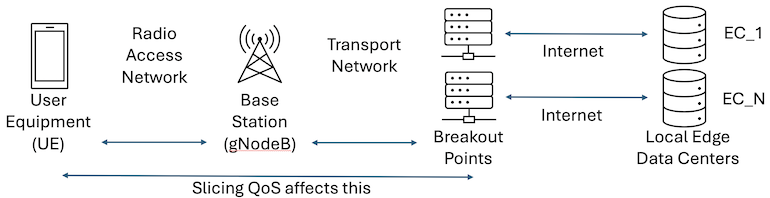
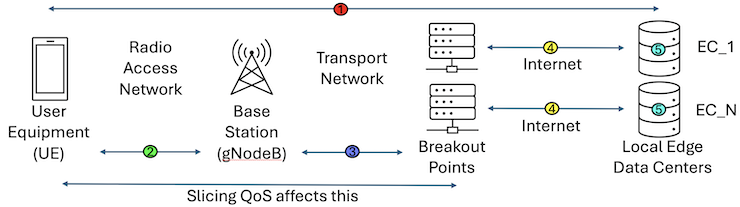
Made connection between figure and form fields better

diff --git a/src/5G4Data-tool-decision-logic/templates/first-step.html b/src/5G4Data-tool-decision-logic/templates/first-step.html
@@ -48,6 +48,31 @@
             visibility: visible;
             opacity: 1;
         }
+        .tooltip label {
+            display: flex;
+            align-items: center;
+            gap: 8px; /* Adds space between the circle and text */
+        }
+
+        .tooltip label::before {
+            content: attr(data-number); /* Gets the number from the `data-number` attribute */
+            display: flex;
+            align-items: center;
+            justify-content: center;
+            width: 24px;
+            height: 24px;
+            background-color: #007bff; /* Blue color */
+            color: white;
+            border-radius: 50%; /* Makes it a circle */
+            font-size: 14px;
+            font-weight: bold;
+        }
+        .tooltip label[data-number="1"]::before { background-color: #FF0000; } /* Red-Orange */
+        .tooltip label[data-number="2"]::before { background-color: #05f932; } /* Blue */
+        .tooltip label[data-number="3"]::before { background-color: #6b80f7; } /* Green */
+        .tooltip label[data-number="4"]::before { background-color: #cff804; } /* Yellow */
+        .tooltip label[data-number="5"]::before { background-color: #33ffeb; } /* Purple */
+
     </style>
 </head>
 <body>
@@ -70,31 +95,31 @@
 
             <form method="POST">
                 <div class="tooltip">
-                    <label for="L">Required Latency (ms):</label>
+                    <label for="L" data-number="1">Required Latency (ms):</label>
                     <span class="tooltiptext">The maximum acceptable total latency for your application, including all latency elements.</span>
                 </div>
                 <input type="text" name="L" id="L" value="{{ latencies.L }}" class="required-latency" required>
 
                 <div class="tooltip">
-                    <label for="g">UE to gNodeB (ms):</label>
+                    <label for="g" data-number="2">UE to gNodeB (ms):</label>
                     <span class="tooltiptext">Latency from User Equipment (UE) to the gNodeB (base station). This is usually low since the closest gNodeB is probably close.</span>
                 </div>
                 <input type="text" name="g" id="g" value="{{ latencies.g }}" required>
 
                 <div class="tooltip">
-                    <label for="b">gNodeB to Breakout Point (ms):</label>
+                    <label for="b" data-number="3">gNodeB to Breakout Point (ms):</label>
                     <span class="tooltiptext">Latency from the base station (gNodeB) to the breakout point.</span>
                 </div>
                 <input type="text" name="b" id="b" value="{{ latencies.b }}" required>
 
                 <div class="tooltip">
-                    <label for="s">Breakout Point to Server (ms):</label>
+                    <label for="s" data-number="4">Breakout Point to Server (ms):</label>
                     <span class="tooltiptext">Latency from the breakout point to the application server.</span>
                 </div>
                 <input type="text" name="s" id="s" value="{{ latencies.s }}" required>
 
                 <div class="tooltip">
-                    <label for="c">Compute Latency (ms):</label>
+                    <label for="c" data-number="5">Compute Latency (ms):</label>
                     <span class="tooltiptext">Time taken by the application server to process data and send results back to the client application.</span>
                 </div>
                 <input type="text" name="c" id="c" value="{{ latencies.c }}" required>
